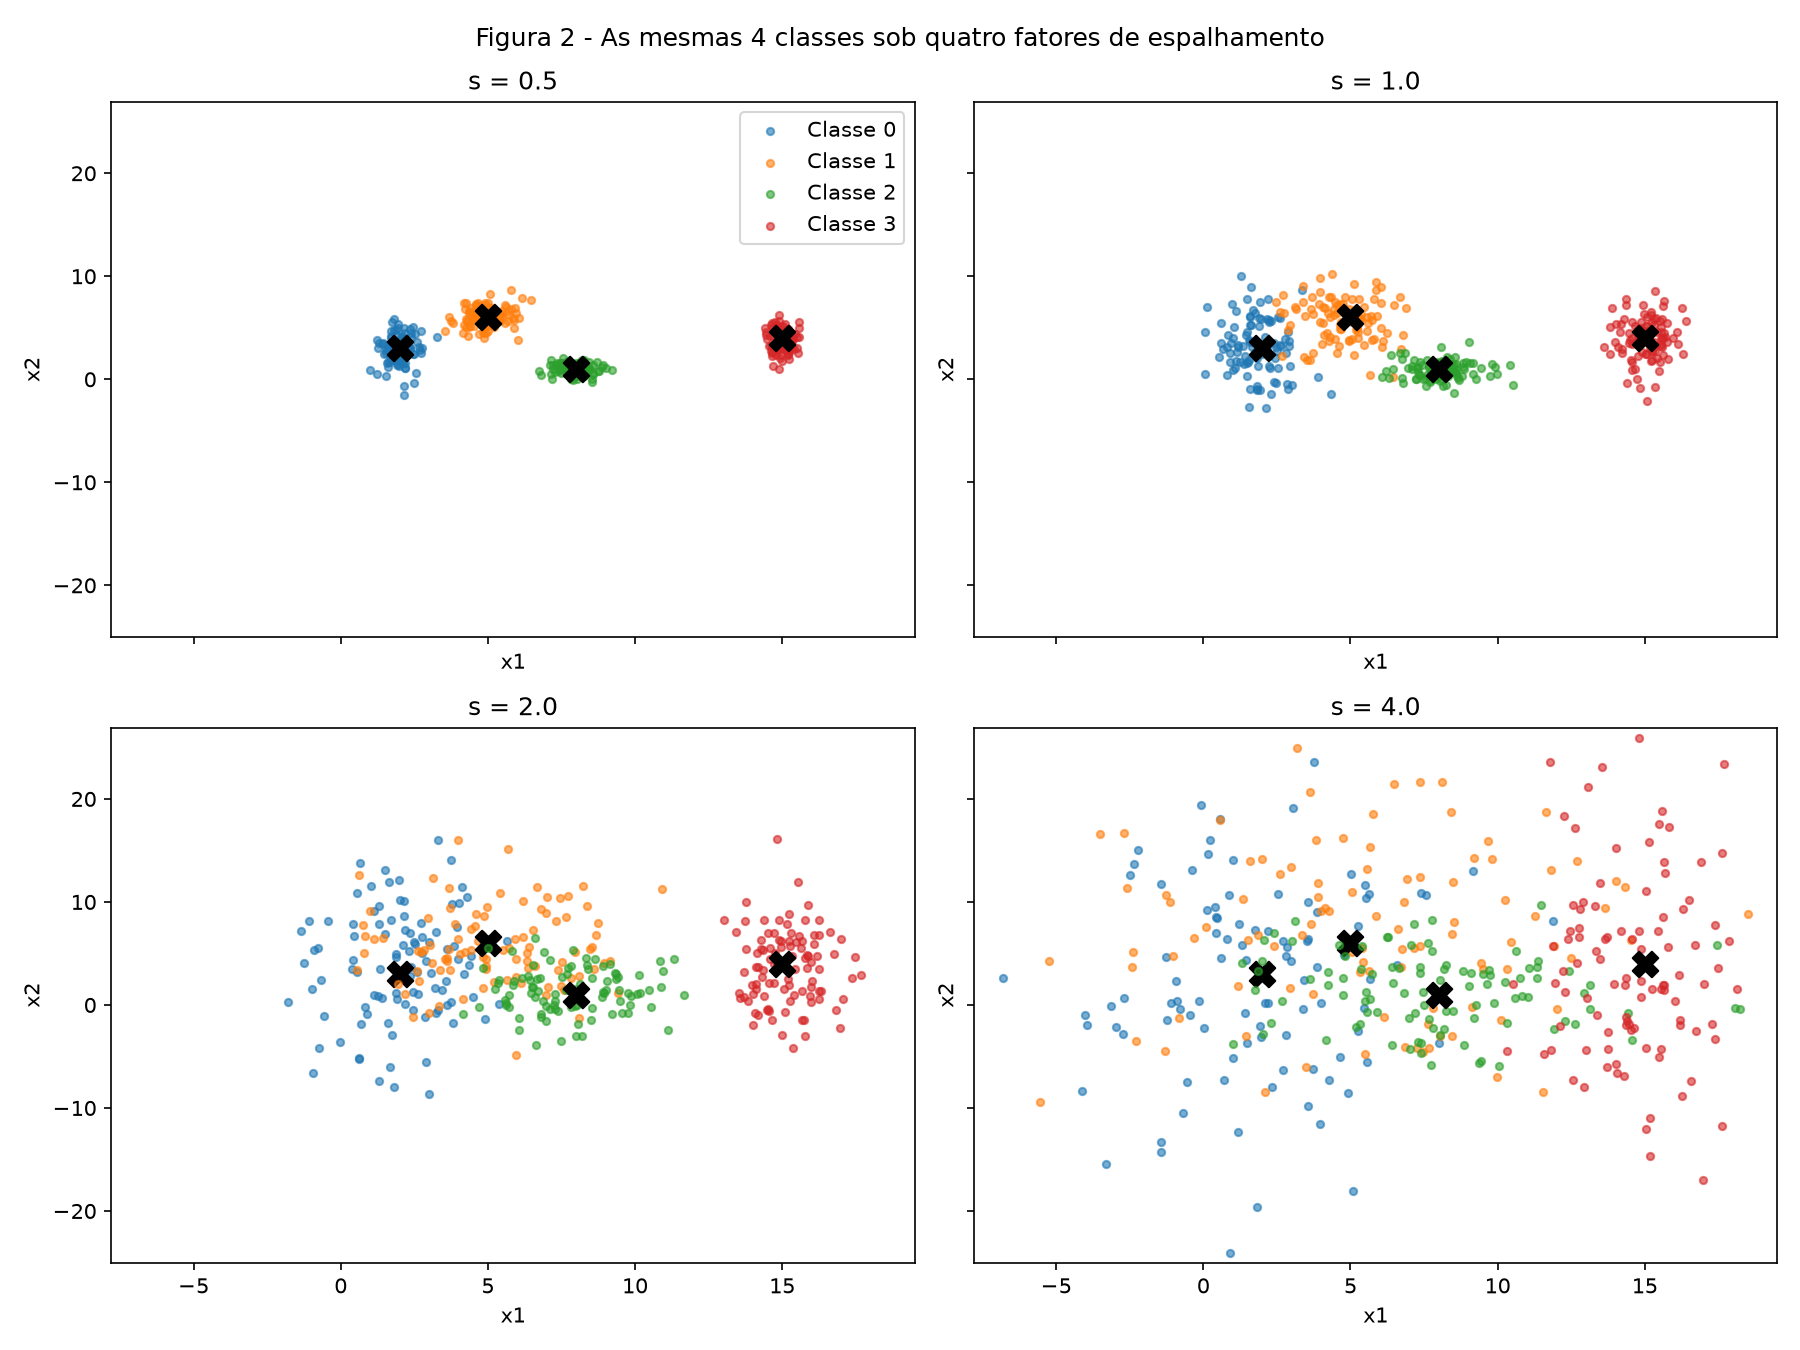
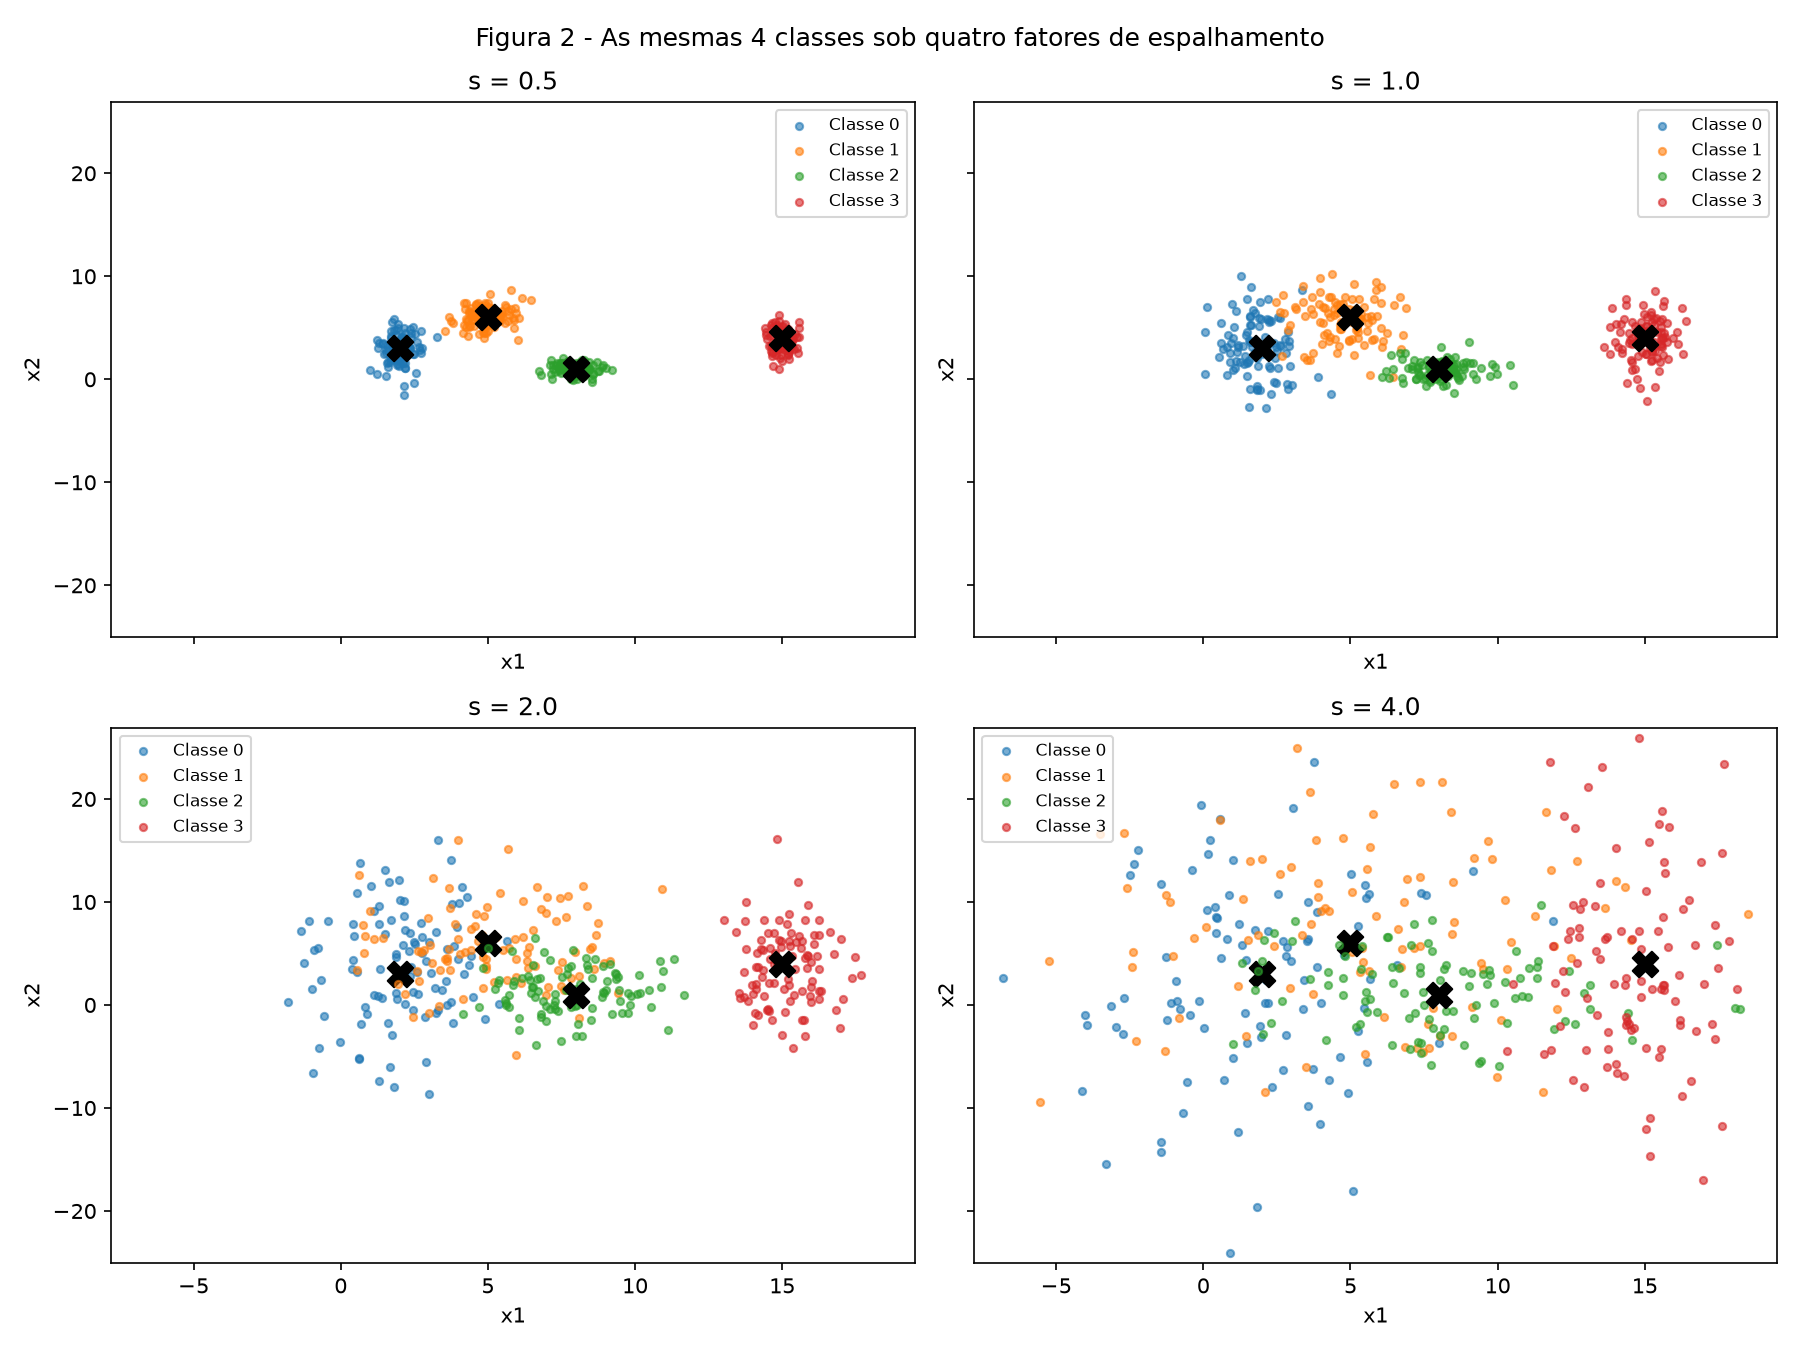
Corrige a ordem das seções e as legendas exigidas pelo enunciado
O enunciado e a página de formato de entrega dizem, os dois, que a
última seção do relatório tem de ser o "Resumo dos resultados". A
seção de código estava depois dela; passa para antes.

Também: legenda nos quatro subplots da Figura 2, e não apenas no
primeiro, porque a regra técnica pede título, rótulos de eixo e
legenda das classes em todo gráfico. E o texto agora diz
explicitamente que a Figura 1b é a Figura 1 com as fronteiras
desenhadas por cima, que é o que o item C pede.

Números inalterados.

diff --git a/docs/exercises/data/code/ex1_nuvens.py b/docs/exercises/data/code/ex1_nuvens.py
@@ -84,7 +84,7 @@ for ax, s in zip(axes.ravel(), ESCALAS):
     desenhar_classes(ax, X_s, y_s, f"s = {s}")
     ax.set_xlim(X_maior[:, 0].min() - 1, X_maior[:, 0].max() + 1)
     ax.set_ylim(X_maior[:, 1].min() - 1, X_maior[:, 1].max() + 1)
-axes[0, 0].legend()
+    ax.legend(fontsize=8)
 fig.suptitle("Figura 2 - As mesmas 4 classes sob quatro fatores de espalhamento")
 fig.tight_layout()
 fig.savefig(FIGURAS / "fig2.png", dpi=150)

diff --git a/docs/exercises/data/index.md b/docs/exercises/data/index.md
@@ -83,7 +83,8 @@ Sobreposição em $s = 1$. Os 6,75% de pontos mal atribuídos se concentram quas
 
 Uma única fronteira linear não separa as quatro classes: uma reta divide o plano em duas regiões e precisamos de quatro. O mínimo é três retas. Um conjunto de fronteiras lineares, por outro lado, resolve quase tudo, e é o que uma rede com camada escondida constrói ao combinar semiplanos em regiões poligonais.
 
-Esboço das fronteiras:
+Abaixo, a Figura 1 novamente — os mesmos 400 pontos e os mesmos centros — agora com as
+fronteiras de decisão desenhadas por cima:
 
 ![Figura 1b](figures/fig1b.png)
 
@@ -267,26 +268,6 @@ Quais decisões mais afetariam o treinamento. O $\log(1+x)$. É a única transfo
 
 ---
 
-## Resumo dos resultados
-
-| # | Item | Seu valor |
-|---|---|---|
-| 1 | Taxa de mistura em $s = 0{,}5$ | 0,0000 (0 de 400) |
-| 2 | Taxa de mistura em $s = 1{,}0$ | 0,0675 (27 de 400) |
-| 3 | Taxa de mistura em $s = 2{,}0$ | 0,2250 (90 de 400) |
-| 4 | Taxa de mistura em $s = 4{,}0$ | 0,4175 (167 de 400) |
-| 5 | Menor $r_{ij}$ em $s = 1{,}0$ e qual é o par | 1,326 — par (0, 1) |
-| 6 | Distância entre os centros — Dataset I | 3,2282 |
-| 7 | Distância entre os centros — Dataset II | 0,2662 |
-| 8 | Variância explicada PC1 + PC2 — Dataset I | 66,0% (50,0% + 15,9%) |
-| 9 | Variância explicada PC1 + PC2 — Dataset II | 42,9% (21,6% + 21,3%) |
-| 10 | Proporção da classe positiva em `Transported` | 0,5036 (50,36%) |
-| 11 | Média e mediana de `FoodCourt` no treino, antes de transformar | média 452,61 / mediana 0,00 |
-| 12 | `shape` final da matriz de features de treino | (6954, 17) |
-| 13 | Mínimo e máximo do treino e do teste após o escalonamento | treino [−1,0000 ; 1,0000] / teste [−1,0000 ; 1,1383] |
-
----
-
 ## Código
 
 ### `code/ex1_nuvens.py`
@@ -306,3 +287,23 @@ Quais decisões mais afetariam o treinamento. O $\log(1+x)$. É a única transfo
 ```python
 --8<-- "docs/exercises/data/code/ex3_spaceship.py"
 ```
+
+---
+
+## Resumo dos resultados
+
+| # | Item | Seu valor |
+|---|---|---|
+| 1 | Taxa de mistura em $s = 0{,}5$ | 0,0000 (0 de 400) |
+| 2 | Taxa de mistura em $s = 1{,}0$ | 0,0675 (27 de 400) |
+| 3 | Taxa de mistura em $s = 2{,}0$ | 0,2250 (90 de 400) |
+| 4 | Taxa de mistura em $s = 4{,}0$ | 0,4175 (167 de 400) |
+| 5 | Menor $r_{ij}$ em $s = 1{,}0$ e qual é o par | 1,326 — par (0, 1) |
+| 6 | Distância entre os centros — Dataset I | 3,2282 |
+| 7 | Distância entre os centros — Dataset II | 0,2662 |
+| 8 | Variância explicada PC1 + PC2 — Dataset I | 66,0% (50,0% + 15,9%) |
+| 9 | Variância explicada PC1 + PC2 — Dataset II | 42,9% (21,6% + 21,3%) |
+| 10 | Proporção da classe positiva em `Transported` | 0,5036 (50,36%) |
+| 11 | Média e mediana de `FoodCourt` no treino, antes de transformar | média 452,61 / mediana 0,00 |
+| 12 | `shape` final da matriz de features de treino | (6954, 17) |
+| 13 | Mínimo e máximo do treino e do teste após o escalonamento | treino [−1,0000 ; 1,0000] / teste [−1,0000 ; 1,1383] |
